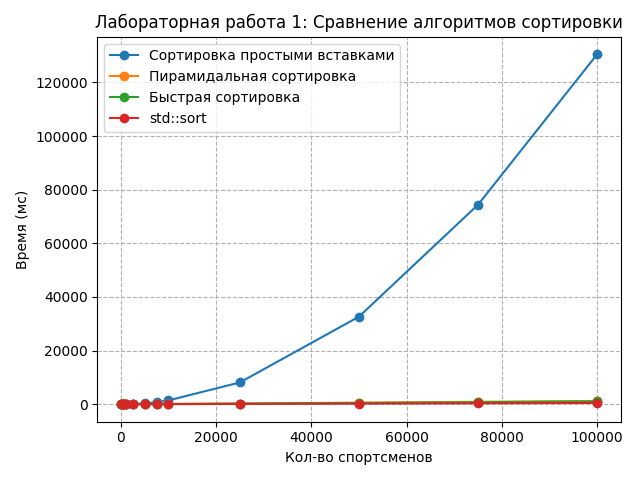
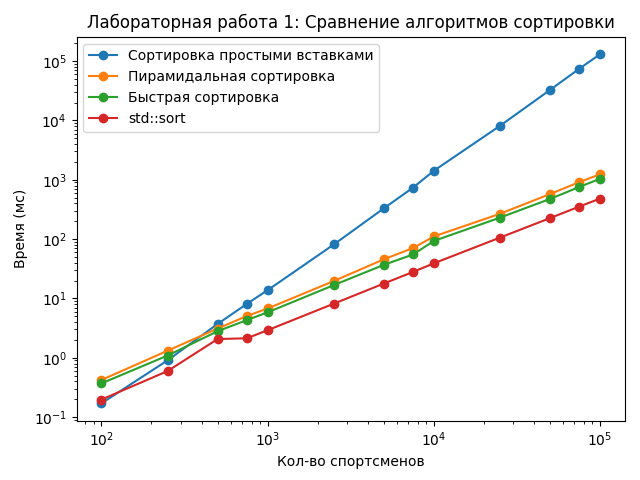
Changed plot in practice1 to log scale

diff --git a/practice1/tests/plot.py b/practice1/tests/plot.py
@@ -32,8 +32,10 @@ plt.plot(num_elements, quick_sort_time, label="Быстрая сортировк
 plt.plot(num_elements, std_sort_time, label="std::sort", marker="o")
 plt.xlabel("Кол-во спортсменов")
 plt.ylabel("Время (мс)")
+plt.xscale("log")
+plt.yscale("log")
 plt.title("Лабораторная работа 1: Сравнение алгоритмов сортировки")
-plt.grid(True, which="both", ls="--")
+# plt.grid(True, which="both", ls="--")
 plt.legend()
 plt.tight_layout()
 plt.savefig("sorting_performance.png")
